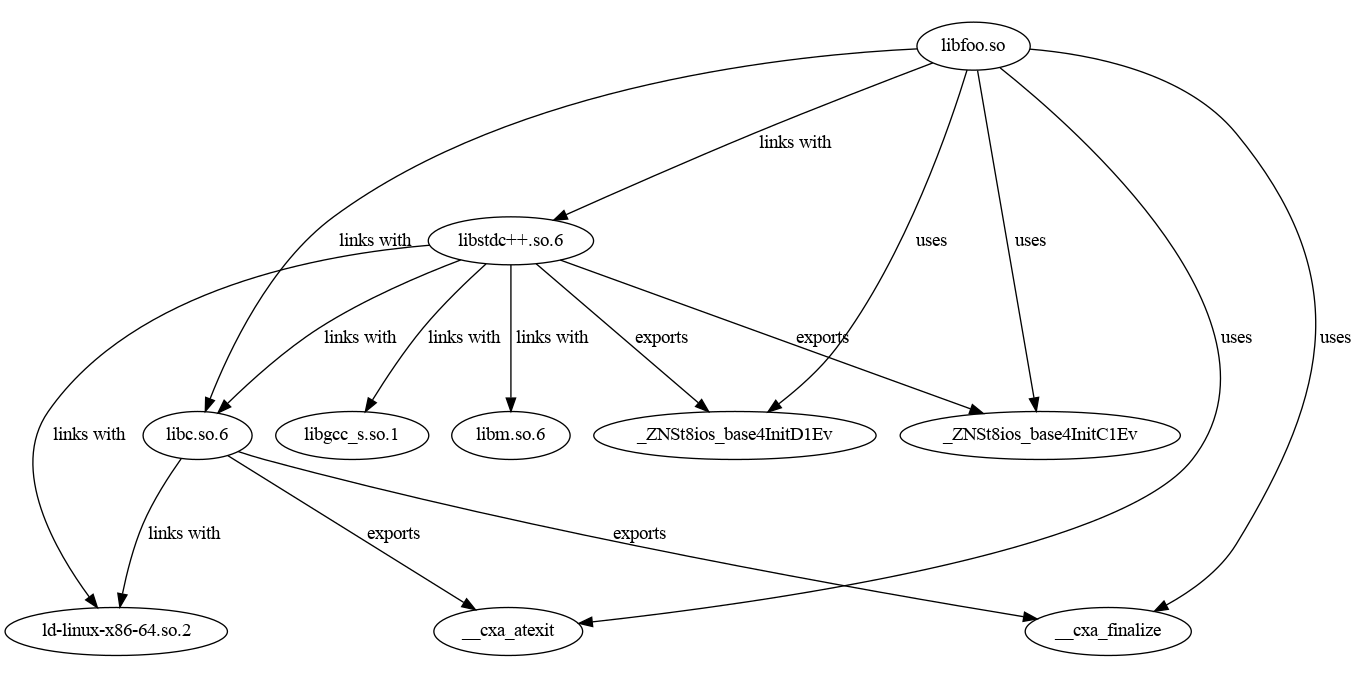
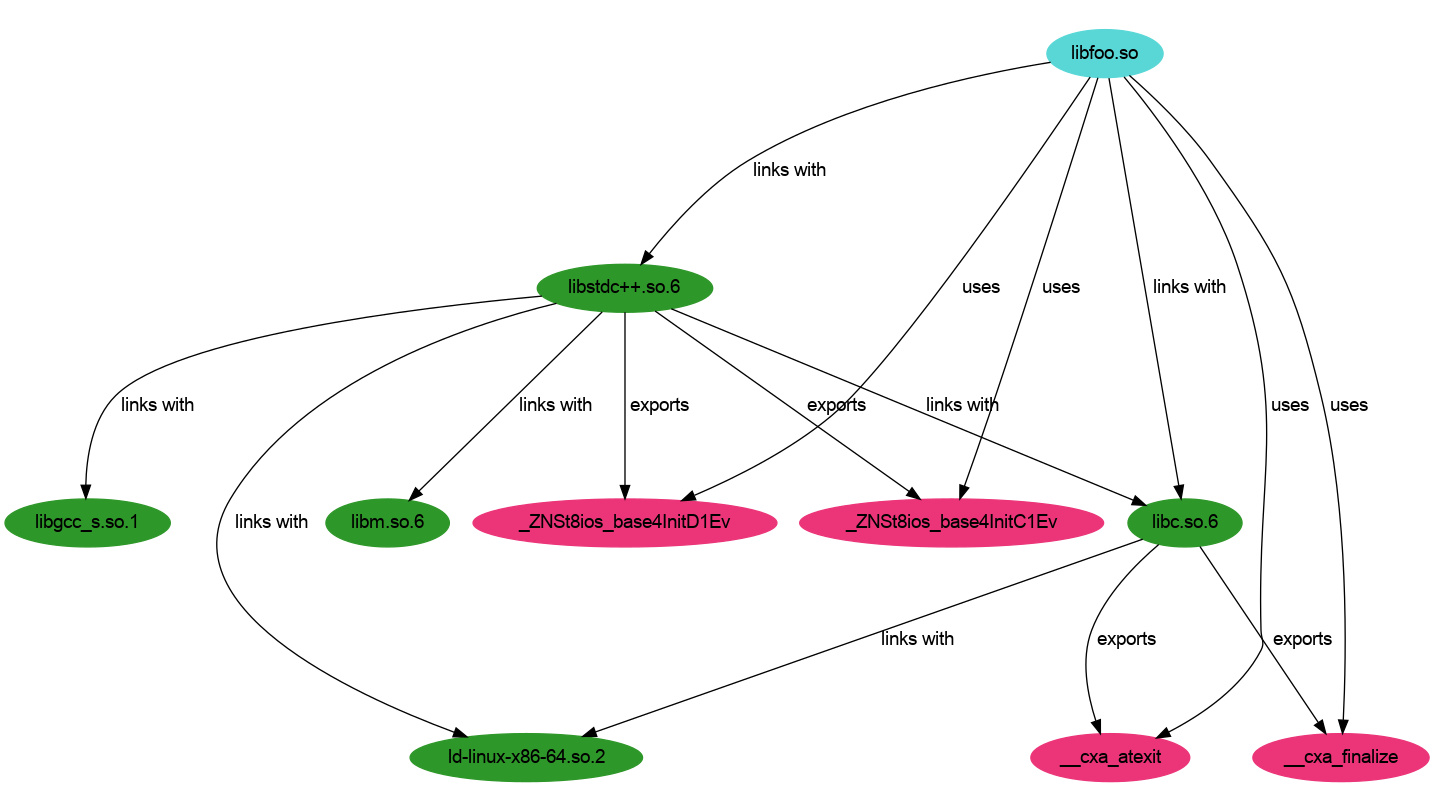
MAKE IT COLORFUL! ✨

diff --git a/elfcall/main/graph/dot.py b/elfcall/main/graph/dot.py
@@ -3,12 +3,9 @@ __copyright__ = "Copyright 2022, Vanessa Sochat"
 __license__ = "GPL-3.0"
 
 
-import elfcall.utils as utils
 from elfcall.logger import logger
-import secrets
-import string
+import random
 import sys
-import os
 
 from .base import GraphBase
 
@@ -18,7 +15,7 @@ class Dot(GraphBase):
     The dot format is for graphviz
     """
 
-    def generate(self, graphname=None, fontname=None):
+    def generate(self, graphname=None, fontname="Arial"):
         if self.outfile != sys.stdout:
             logger.info("Output will be written to %s" % self.outfile)
             fd = open(self.outfile, "w")
@@ -29,20 +26,38 @@ class Dot(GraphBase):
         fd.write("digraph " + graphname + " {\n ratio=0.562;\n")
 
         # Do we want to render using a certain font?
-        if fontname is not None:
-            for node in ["graph", "node", "edge"]:
-                fd.write(" " + node + ' [fontname="' + fontname + '"];\n')
+        for node in ["graph", "node", "edge"]:
+            fd.write(" " + node + ' [fontname="' + fontname + '"];\n')
+
+        # Color for root (first) and then linked libs, and symbols
+        colors = [
+            "#" + "".join([random.choice("0123456789ABCDEF") for j in range(6)])
+            for i in range(3)
+        ]
+
+        root_color = colors.pop()
+        linked_color = colors.pop()
+        symbol_color = colors.pop()
 
         # Create the main binary and linked libs
-        for uid, name, label in self.iter_elf():
-            fd.write(' %s [label="%s" tooltip="%s"];\n' % (uid, label, name))
+        for i, (uid, name, label) in enumerate(self.iter_elf()):
+            if i == 0:
+                fd.write(
+                    ' %s [label="%s" tooltip="%s", style=filled, color="%s"];\n'
+                    % (uid, label, name, root_color)
+                )
+            else:
+                fd.write(
+                    ' %s [label="%s" tooltip="%s", style=filled, color="%s"];\n'
+                    % (uid, label, name, linked_color)
+                )
 
         # Create each symbol
         for uid, name, label, symtype in self.iter_symbols():
             if symtype:
                 fd.write(
-                    ' %s [label="%s" tooltip="%s (%s)"];\n'
-                    % (uid, label, name, symtype)
+                    ' %s [label="%s" tooltip="%s (%s)", style=filled, color="%s"];\n'
+                    % (uid, label, name, symtype, symbol_color)
                 )
             else:
                 fd.write(' %s [label="%s" tooltip="%s"];\n' % (uid, label, name))

diff --git a/elfcall/main/graph/base.py b/elfcall/main/graph/base.py
@@ -3,7 +3,6 @@ __copyright__ = "Copyright 2022, Vanessa Sochat"
 __license__ = "GPL-3.0"
 
 
-import elfcall.utils as utils
 from elfcall.logger import logger
 import secrets
 import string
@@ -111,7 +110,6 @@ class GraphBase:
         """
         Yield binary name, uid, symbol name, symbol uid
         """
-        last = len(self.target["imported"]) - 1
         for symbol in self.target["imported"]:
             placeholder = self.symbol_uids[symbol]
             yield self.target["name"], self.uids[
@@ -159,8 +157,8 @@ class GraphBase:
 
     def iter_elf(self):
         """Iterate the uid, name and label for the main binary and libs"""
-        results = set()
-        results.add(
+        results = []
+        results.append(
             (
                 self.uids[self.target["name"]],
                 os.path.basename(self.target["name"]),
@@ -175,7 +173,7 @@ class GraphBase:
             if os.path.basename(filename) in self.fullpaths:
                 filename = self.fullpaths[os.path.basename(filename)]
             if filename not in seen_libs:
-                results.add(
+                results.append(
                     (
                         self.uids[filename],
                         os.path.basename(filename),
@@ -194,7 +192,7 @@ class GraphBase:
                 if linked_lib in seen_libs:
                     continue
                 seen_libs.add(linked_lib)
-                results.add(
+                results.append(
                     (
                         self.uids[linked_lib],
                         os.path.basename(linked_lib),

diff --git a/elfcall/main/client.py b/elfcall/main/client.py
@@ -9,9 +9,6 @@ import elfcall.main.elf as elf
 
 from copy import deepcopy
 import os
-import re
-import shutil
-import sys
 
 
 class BinaryInterface:
@@ -259,9 +256,6 @@ class BinaryInterface:
 
         # Keep track of libraries we've seen
         seen = set()
-
-        # also keep track of linked libraries (e.g., which has needed)
-        linked_libs = {}
 
         # First look for libraries in DT_NEEDED on ld.paths
         while needed_search:

diff --git a/elfcall/main/graph/cypher.py b/elfcall/main/graph/cypher.py
@@ -3,12 +3,7 @@ __copyright__ = "Copyright 2022, Vanessa Sochat"
 __license__ = "GPL-3.0"
 
 
-import elfcall.utils as utils
 from elfcall.logger import logger
-
-import os
-import secrets
-import string
 import sys
 
 from .base import GraphBase

diff --git a/elfcall/main/graph/text.py b/elfcall/main/graph/text.py
@@ -5,10 +5,7 @@ __license__ = "GPL-3.0"
 
 import elfcall.utils as utils
 from elfcall.logger import logger
-import secrets
-import string
 import sys
-import os
 
 from .base import GraphBase
 

diff --git a/elfcall/client/__init__.py b/elfcall/client/__init__.py
@@ -145,4 +145,4 @@ def run_client():
 
 
 if __name__ == "__main__":
-    run_shpc()
+    run_client()
